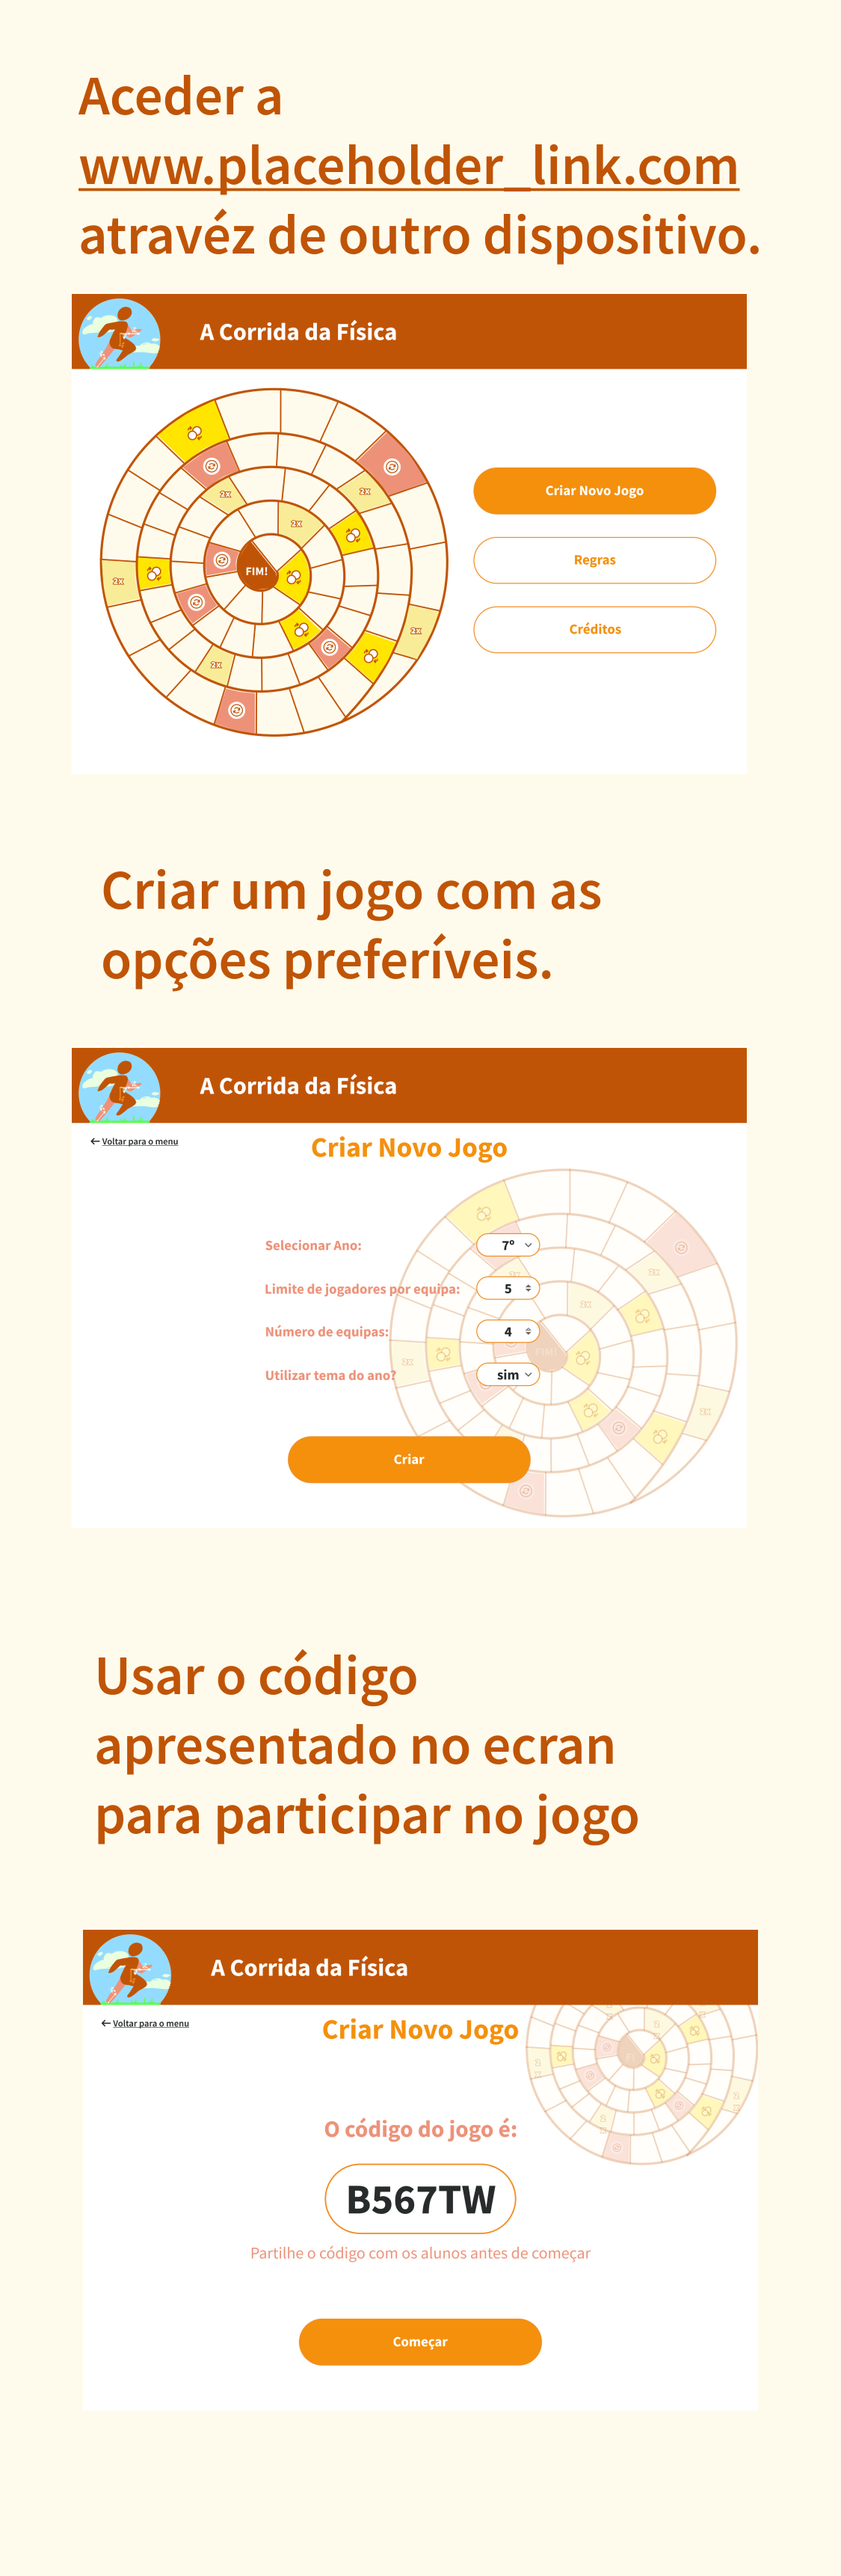
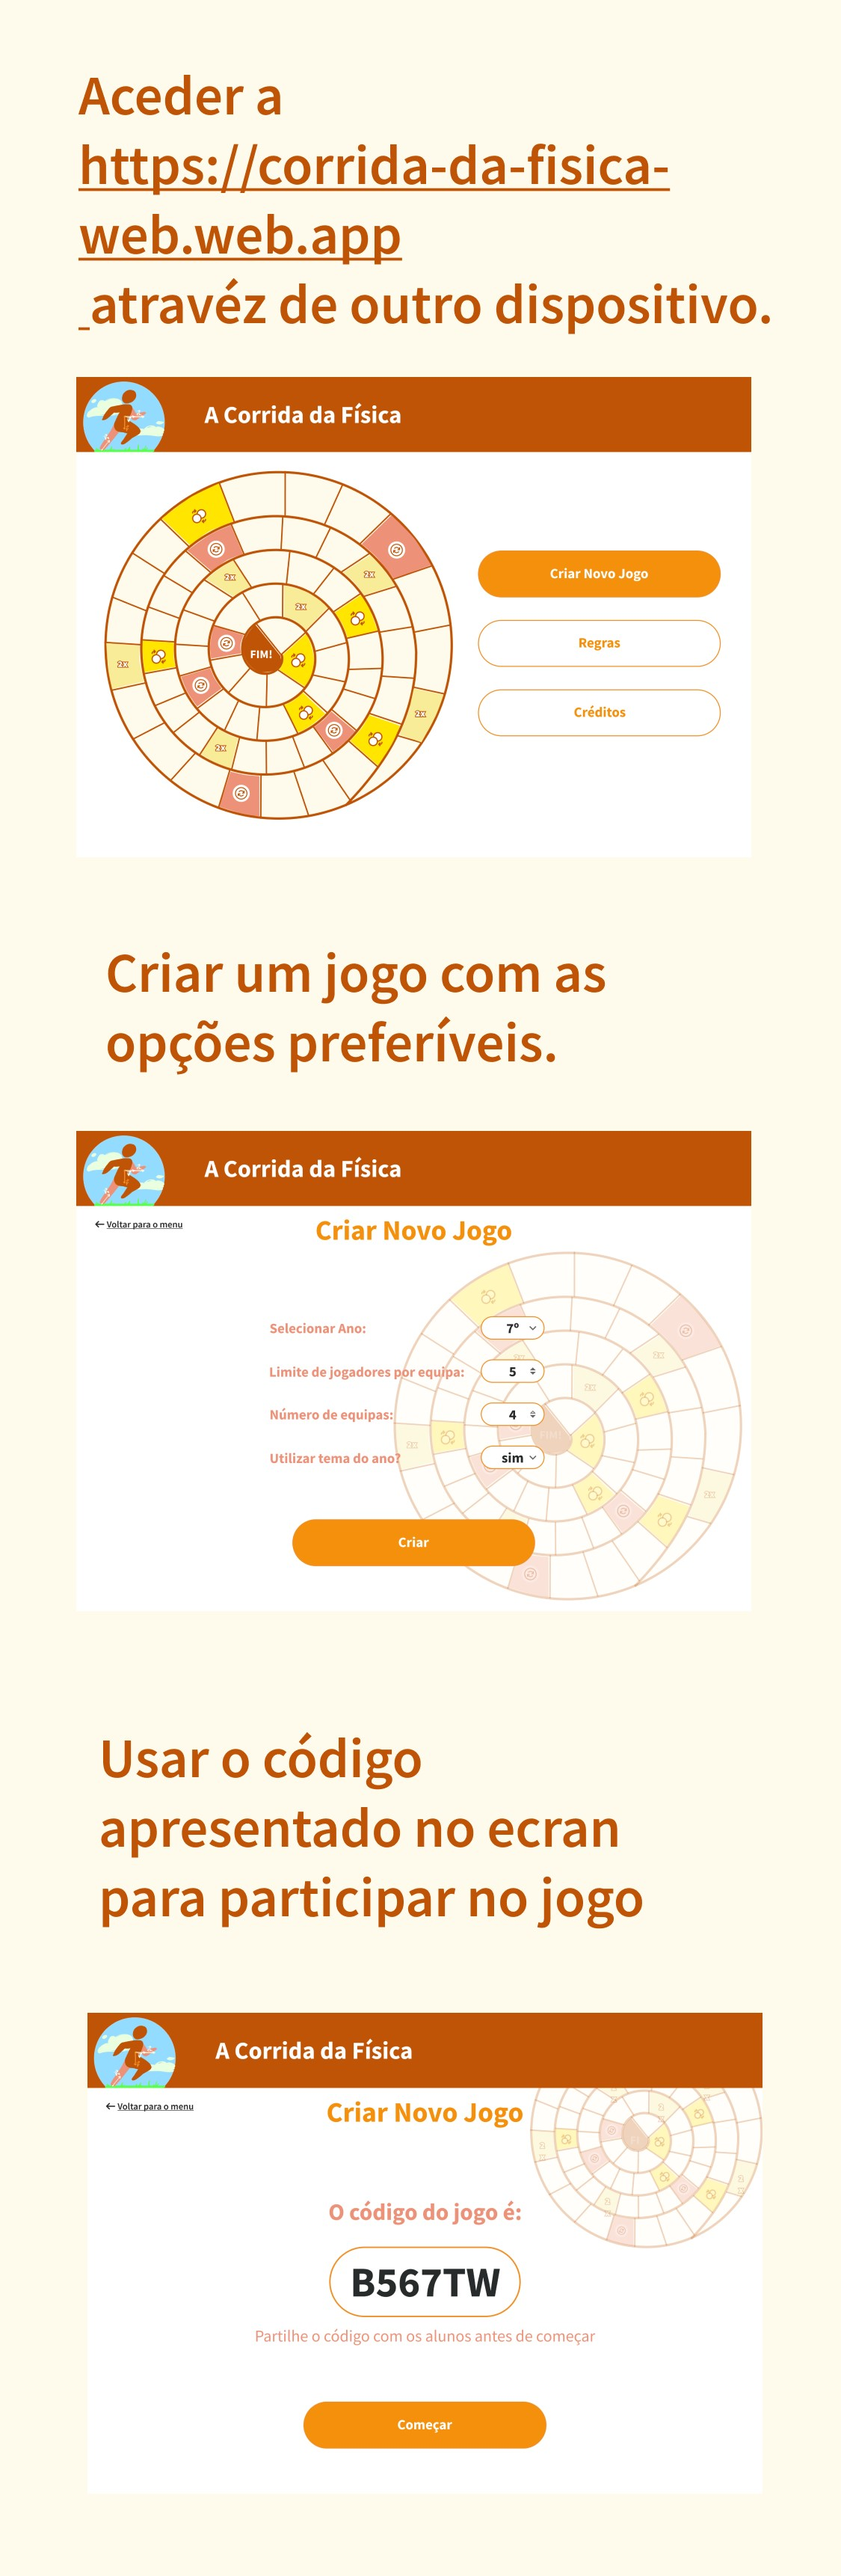
fixed race condition that happened after deploy and urls to services in rules

Changed region(s): [[0.0622, 0.0311, 0.9333, 0.9631]]

diff --git a/corrida_da_fisica_mobile/lib/utils/themes.dart b/corrida_da_fisica_mobile/lib/utils/themes.dart
@@ -10,7 +10,8 @@ ThemeData defaultTheme = ThemeData(
     colorScheme: ColorScheme.fromSwatch().copyWith(
       secondary: DefaultPalette.darkOrange,
       tertiary: DefaultPalette.lightPeach,
-      onError: DefaultPalette.peach
+      onError: DefaultPalette.peach,
+        onBackground: Colors.black
     ),
     textTheme:const TextTheme(
       bodyText1: TextStyle(),
@@ -83,7 +84,8 @@ ThemeData seventhGradeTheme = ThemeData(
     colorScheme: ColorScheme.fromSwatch().copyWith(
       secondary: SeventhGradePalette.yellow,
       tertiary: SeventhGradePalette.lightPurple,
-      onError: SeventhGradePalette.darkBlue
+      onError: SeventhGradePalette.darkBlue,
+        onBackground: Colors.white
     ),
 
 

diff --git a/Corrida_Da_Fisica_Web/lib/view/pages/connect_page.dart b/Corrida_Da_Fisica_Web/lib/view/pages/connect_page.dart
@@ -32,7 +32,7 @@ class ConnectInstructionsPage extends StatelessWidget {
         RuleSection(
             width: MediaQuery.of(context).size.width / 3 - 40,
             text:
-            "Aceder ao site www.placeholder2.com a partir de um dispositivo pessoal",
+            "Aceder ao site \"corrida-da-fisica-mobile.web.app\" a partir de um dispositivo pessoal",
             image: "assets/images/join_instructions/main_screen.png"),
         RuleSection(
             width: MediaQuery.of(context).size.width / 3 - 40,

diff --git a/corrida_da_fisica_mobile/lib/view/pages/create_profile_page.dart b/corrida_da_fisica_mobile/lib/view/pages/create_profile_page.dart
@@ -132,7 +132,7 @@ class _CreateProfilePage extends State<CreateProfilePage>{
             margin: const EdgeInsets.all(20),
             width: 500,
             child: TextFormField(
-              style: const TextStyle(color: Colors.white),
+              style: TextStyle(color: Theme.of(context).colorScheme.onBackground),
                 controller: _nameController,
                 decoration: const InputDecoration(
                   border: OutlineInputBorder(

diff --git a/Corrida_Da_Fisica_Web/lib/controller/repository/GameRepository.dart b/Corrida_Da_Fisica_Web/lib/controller/repository/GameRepository.dart
@@ -271,6 +271,7 @@ class GameRepository extends ChangeNotifier {
           });
 
       if (response.statusCode >= 200 && response.statusCode < 300) {
+        await chooseRoll();
       } else {
         log("${response.statusCode.toString()}: ${response.body.toString()}");
       }

diff --git a/Corrida_Da_Fisica_Web/lib/view/pages/game_page.dart b/Corrida_Da_Fisica_Web/lib/view/pages/game_page.dart
@@ -20,9 +20,6 @@ class _GamePage extends State<GamePage> {
 
   @override
   void initState() {
-    if (!context.read<GameRepository>().won) {
-      context.read<GameRepository>().chooseRoll();
-    }
     super.initState();
   }
 
